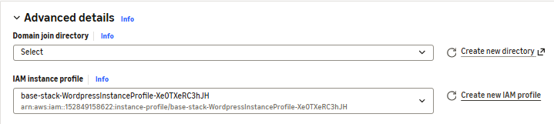
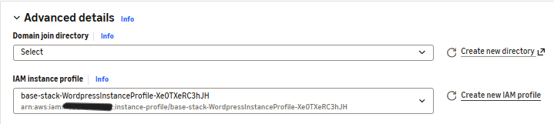
Add screenshots and details to the guide

Changed region(s): [[0.0921, 0.8226, 0.2148, 0.8952]]

diff --git a/deployment-guide.md b/deployment-guide.md
@@ -2,10 +2,10 @@
 
 ## Navigation
 
-- [Stage 1](#stage-1)
-- [Stage 2](#stage-2)
-- [Stage 3](#stage-3)
-- [Stage 4](#stage-4)
+- [Stage 1](#stage-1--base-infrastructure-in-iac)
+- [Stage 2](#stage-2--configure-ec2-instance-for-custom-ami)
+- [Stage 3](#stage-3---enable-elasticity-via-an-asg--alb)
+- [Stage 4](#stage-4---fix-wordpress-configurations-hardcoded-wphome)
 
 
 Building a Highly Available WordPress Web Application
@@ -546,7 +546,13 @@ Once the security group is created, we return to the “Create load balancer” 
 
 Under Listeners and routing, we keep the protocol as HTTP and Port as 80 and for the Default action, we want the “forward to target groups” selected. We click on “Create target group”, and select "Instances" for the target type, I named the group Web-TG and selected our VPC leaving everything else as default.
 
+<img src="screenshots/ALB-TG.png" />
+
 Once the target group is created, we go back again to the “Create load balancer” page and select our Web-TG.
+
+<img src="screenshots/listeners-routing-ALB.png" />
+
+Finally, we can press on "Create load balancer".
 
 ### Create LT (Launch Template)
 
@@ -576,6 +582,8 @@ Lastly, we expand the “Advanced details” section and choose the Instance pro
 
 <img src="screenshots/image26.png" style="width:5.76806in;height:0.85278in" />
 
+Once the above configurations are set, click on “Create launch template”.
+
 ### Create ASG (Auto Scaling Group)
 
 Still through the EC2 console, this time we navigate to the Auto Scaling Groups and click on “Create Auto Scaling group”.
@@ -602,7 +610,7 @@ In the next step, for our small project we set desired capacity (number of insta
 
 <img src="screenshots/image32.png" style="width:5.76806in;height:2.66458in" />
 
-Setting minimum capacity at 1 also acts as a fault-tolerance method as this forces the creation of a new instance to reach minimum capacity of 1 if the only instance in the group fails, and this is of course in addition to the primary goal of autoscaling which is improving performance based on load.
+Setting minimum capacity at 1 (or any value higher than 0) also acts as a fault-tolerance method as this forces the creation of a new instance to reach minimum capacity of 1 if the only instance in the group fails, and this is of course in addition to the primary goal of autoscaling which is improving performance based on load.
 
 In the same step, we want to also check the monitoring checkbox under “Additional settings” as this allows CloudWatch to see the group metrics that can determine the status of ASGs:
 
@@ -669,3 +677,9 @@ After the instance refresh is complete, we can navigate to the DNS name of our E
 <img src="screenshots/image40.png" style="width:5.76806in;height:3.39236in" />
 
 <img src="screenshots/image41.png" style="width:5.76806in;height:3.83125in" />
+
+
+
+**Notes
+This project was teared down once it was complete in order to stop continuous AWS charges. Resources were deleted in reverse order of creation.
+Sensitive information was replaced with placeholders in many locations. Any remaining sensitive information belongs to resources that no longer exist.
